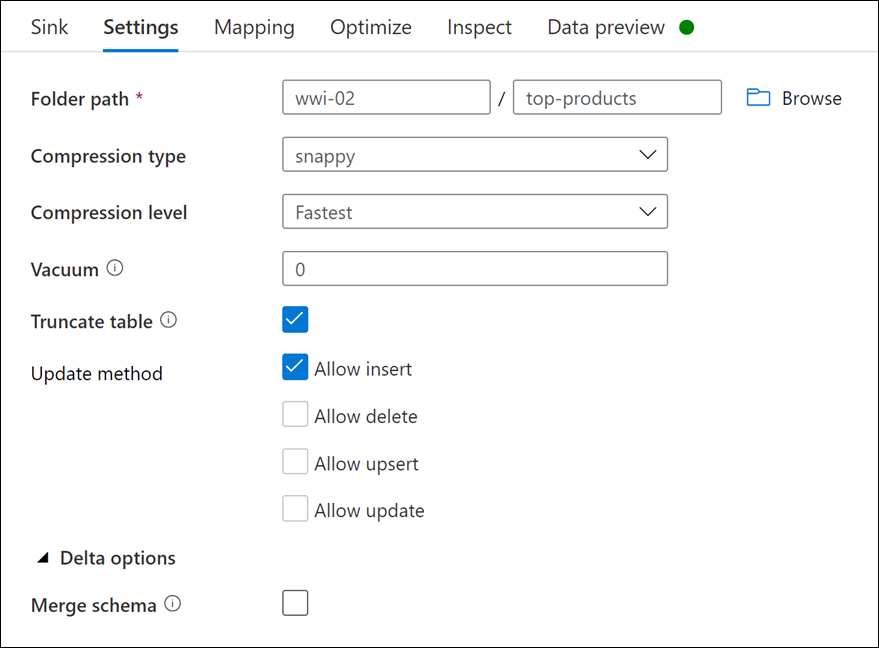
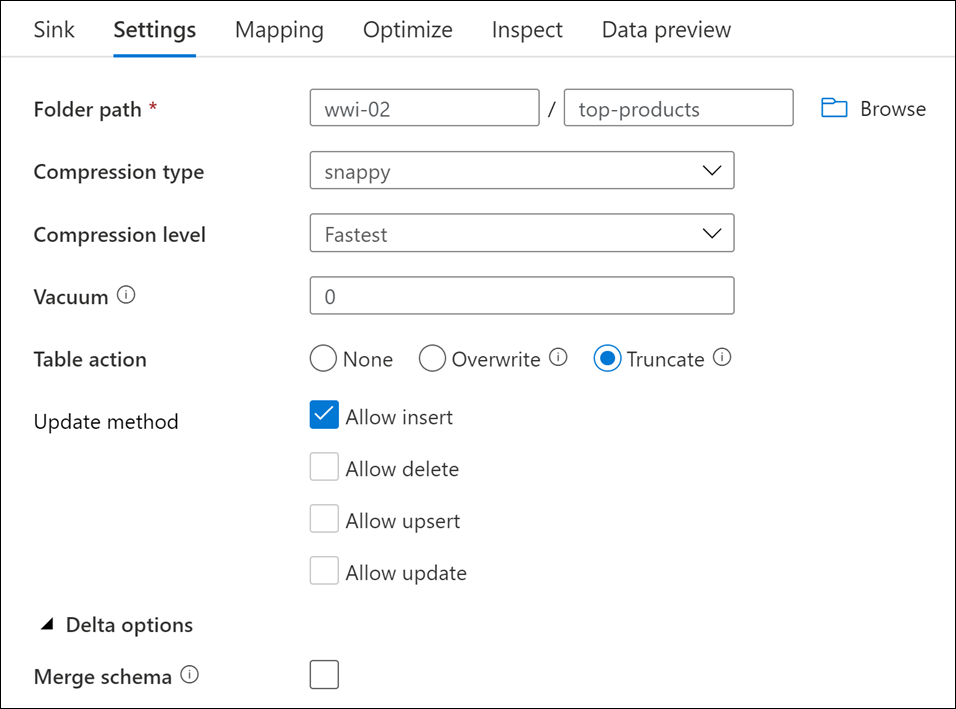
Account for UI changes; closes #29

diff --git a/demos/module4/README.md b/demos/module4/README.md
@@ -644,7 +644,7 @@ To do this, you will build a mapping data flow that performs the following tasks
     - **Compression type**: Select `snappy`.
     - **Compression level**: Select `Fastest`.
     - **Vacuum**: Enter 0.
-    - **Truncate table**: Check.
+    - **Truncate table**: Select.
     - **Update method**: Check `Allow insert` and leave the rest unchecked.
     - **Merge schema (under Delta options)**: Unchecked.
 
